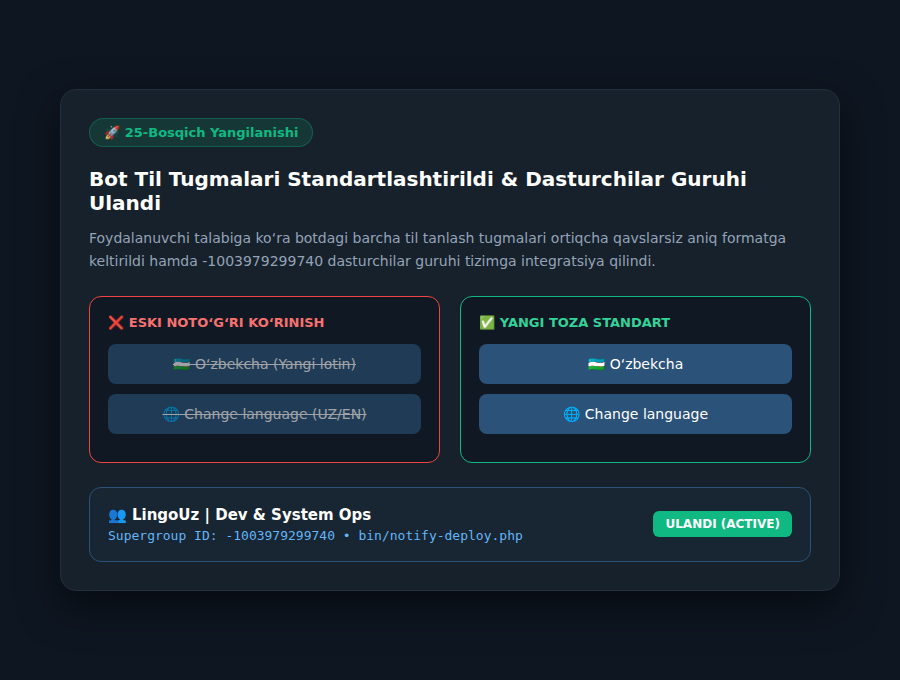
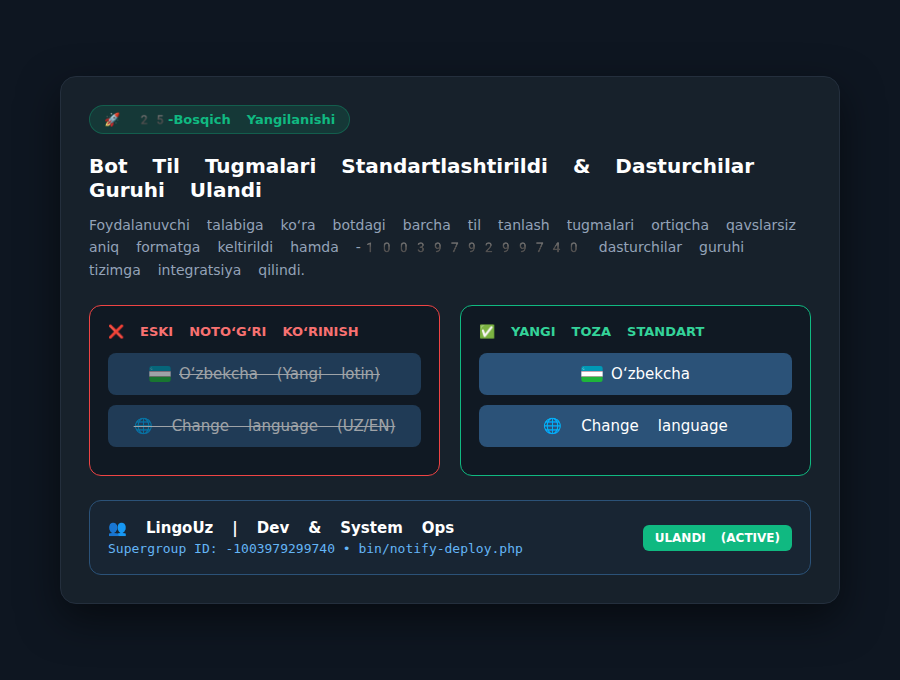
fix(telegram): render visible Uzbekistan SVG flag for language button preview

diff --git a/public/lang-buttons-preview.html b/public/lang-buttons-preview.html
@@ -4,7 +4,7 @@
 <meta charset="UTF-8">
 <title>Language Buttons Preview</title>
 <style>
-  * { box-sizing: border-box; margin: 0; padding: 0; font-family: -apple-system, BlinkMacSystemFont, "Segoe UI", Roboto, sans-serif; }
+  * { box-sizing: border-box; margin: 0; padding: 0; font-family: -apple-system, BlinkMacSystemFont, "Segoe UI", Roboto, "Noto Color Emoji", sans-serif; }
   body { background: #0e1621; display: flex; justify-content: center; align-items: center; min-height: 100vh; padding: 20px; }
   .card { width: 100%; max-width: 780px; background: #17212b; border-radius: 16px; border: 1px solid #242f3d; padding: 28px; box-shadow: 0 15px 40px rgba(0,0,0,0.5); }
   .badge { display: inline-flex; align-items: center; gap: 8px; background: rgba(16, 185, 129, 0.15); color: #10b981; border: 1px solid rgba(16, 185, 129, 0.3); padding: 6px 14px; border-radius: 20px; font-size: 13px; font-weight: 600; margin-bottom: 20px; }
@@ -19,8 +19,10 @@
   .old .comp-title { color: #f87171; }
   .new .comp-title { color: #34d399; }
   
-  .btn-sample { background: #2b5278; color: #fff; padding: 12px 16px; border-radius: 8px; font-size: 14px; margin-bottom: 10px; display: flex; align-items: center; justify-content: center; font-weight: 500; }
+  .btn-sample { background: #2b5278; color: #fff; padding: 12px 16px; border-radius: 8px; font-size: 15px; margin-bottom: 10px; display: flex; align-items: center; justify-content: center; font-weight: 500; gap: 8px; }
   .old .btn-sample { text-decoration: line-through; opacity: 0.6; }
+  
+  .flag-icon { width: 22px; height: 16px; border-radius: 3px; vertical-align: middle; }
   
   .dev-group-box { background: #182533; border: 1px solid #2b5278; border-radius: 12px; padding: 18px; display: flex; align-items: center; justify-content: space-between; }
   .dev-group-info { display: flex; flex-direction: column; gap: 4px; }
@@ -39,13 +41,19 @@
   <div class="comparison">
     <div class="comp-box old">
       <div class="comp-title">❌ Eski Noto‘g‘ri Ko‘rinish</div>
-      <div class="btn-sample">🇺🇿 O‘zbekcha (Yangi lotin)</div>
+      <div class="btn-sample">
+        <svg class="flag-icon" viewBox="0 0 640 480"><g fill-rule="evenodd" stroke-width="1pt"><path fill="#0099b5" d="M0 0h640v160H0z"/><path fill="#fff" d="M0 160h640v160H0z"/><path fill="#ce1126" d="M0 155h640v10H0z"/><path fill="#ce1126" d="M0 315h640v10H0z"/><path fill="#1eb53a" d="M0 320h640v160H0z"/><circle cx="70" cy="80" r="30" fill="#fff"/><circle cx="80" cy="80" r="30" fill="#0099b5"/></g></svg>
+        O‘zbekcha (Yangi lotin)
+      </div>
       <div class="btn-sample">🌐 Change language (UZ/EN)</div>
     </div>
 
     <div class="comp-box new">
       <div class="comp-title">✅ Yangi Toza Standart</div>
-      <div class="btn-sample">🇺🇿 O‘zbekcha</div>
+      <div class="btn-sample">
+        <svg class="flag-icon" viewBox="0 0 640 480"><g fill-rule="evenodd" stroke-width="1pt"><path fill="#0099b5" d="M0 0h640v160H0z"/><path fill="#fff" d="M0 160h640v160H0z"/><path fill="#ce1126" d="M0 155h640v10H0z"/><path fill="#ce1126" d="M0 315h640v10H0z"/><path fill="#1eb53a" d="M0 320h640v160H0z"/><circle cx="70" cy="80" r="30" fill="#fff"/><circle cx="80" cy="80" r="30" fill="#0099b5"/></g></svg>
+        O‘zbekcha
+      </div>
       <div class="btn-sample">🌐 Change language</div>
     </div>
   </div>
